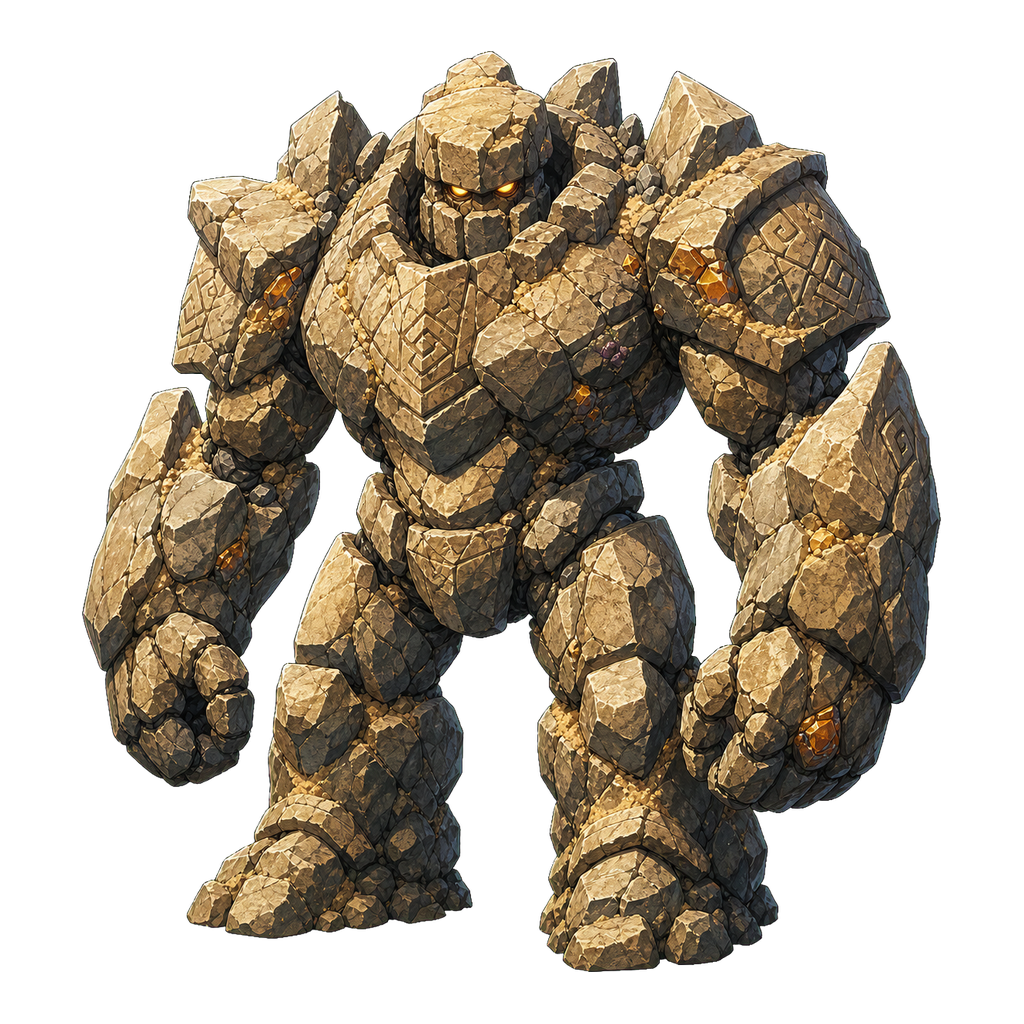
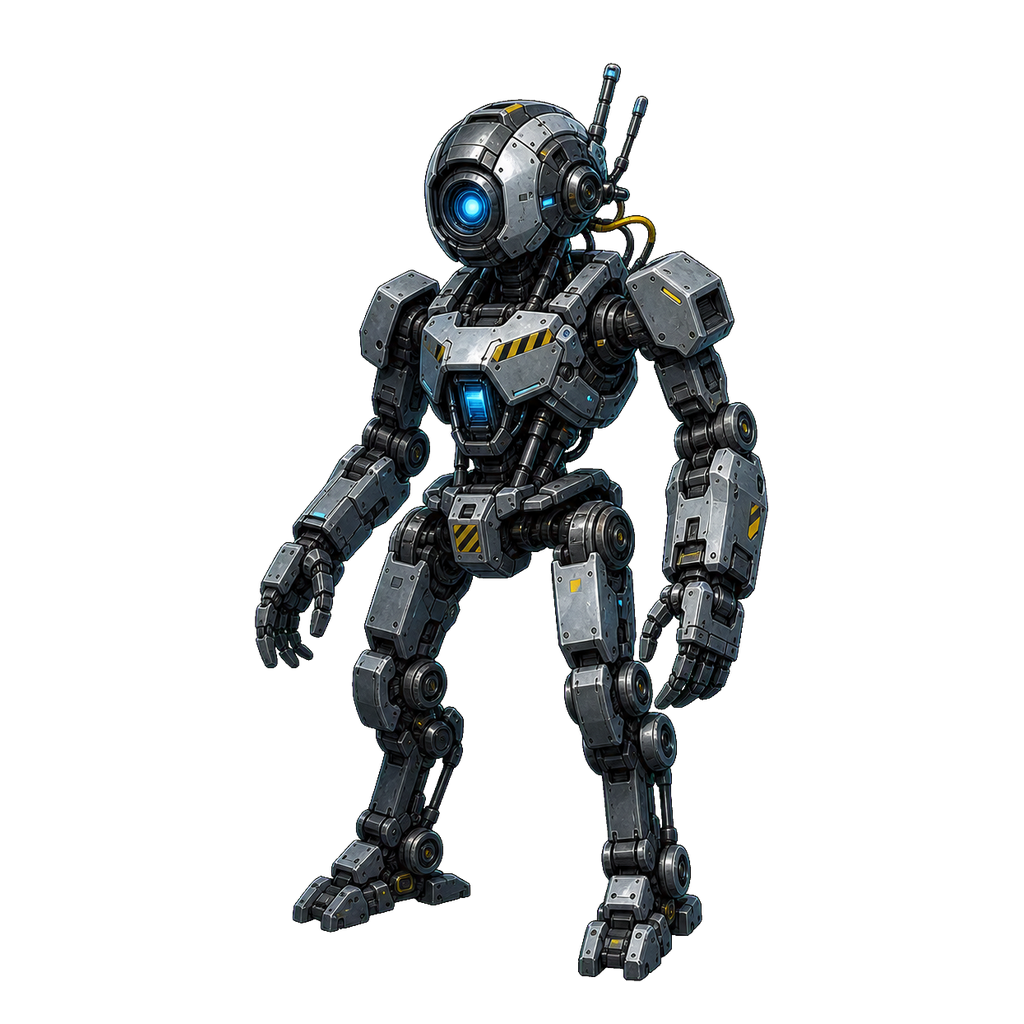
improve delta bosses and g weapon damage

diff --git a/src/game/logic.ts b/src/game/logic.ts
@@ -208,6 +208,7 @@ function createPlayer(): Player {
     axeBreakTimer: 0,
     shieldShockCooldown: 0,
     shieldShockTimer: 0,
+    mainWeaponDamageBonus: 0,
   };
 }
 
@@ -234,13 +235,14 @@ export function updateGame(
   weaponId: string | undefined = undefined,
   weaponLevel = 1,
   mainCharacterId: MainCharacterId = 'socho',
+  isGWeapon = false,
 ): GameState {
   if (state.status !== 'playing') return state;
 
   let next: GameState = {
     ...state,
     elapsed: state.elapsed + dt,
-    player: updatePlayer(state.player, dt, move, Boolean(state.boss)),
+    player: { ...updatePlayer(state.player, dt, move, Boolean(state.boss)), mainWeaponDamageBonus: isGWeapon ? 1 : 0 },
     spawnTimer: state.spawnTimer - dt,
   };
   const supportSources = createSupportAbilitySources(supportId, supportLevel, auraSupportId, auraSupportLevel);
@@ -796,8 +798,8 @@ function runAutoBow(state: GameState, weaponId: string | undefined, weaponLevel:
     y: state.player.y - 24,
     vy: -TSUTSU_ARROW_SPEED,
     radius: TSUTSU_ARROW_RADIUS,
-    damage: TSUTSU_ARROW_DAMAGE,
-    bossDamage: TSUTSU_ARROW_BOSS_DAMAGE,
+    damage: TSUTSU_ARROW_DAMAGE + state.player.mainWeaponDamageBonus,
+    bossDamage: TSUTSU_ARROW_BOSS_DAMAGE + state.player.mainWeaponDamageBonus,
     life: TSUTSU_ARROW_LIFE,
   };
 
@@ -838,8 +840,8 @@ function runAutoIceSword(state: GameState, weaponId: string | undefined, weaponL
       vx: direction.x * NANAICHI_ICE_SHARD_SPEED,
       vy: direction.y * NANAICHI_ICE_SHARD_SPEED,
       radius: NANAICHI_ICE_SHARD_RADIUS,
-      damage: NANAICHI_ICE_SHARD_DAMAGE,
-      bossDamage: NANAICHI_ICE_SHARD_BOSS_DAMAGE,
+      damage: NANAICHI_ICE_SHARD_DAMAGE + state.player.mainWeaponDamageBonus,
+      bossDamage: NANAICHI_ICE_SHARD_BOSS_DAMAGE + state.player.mainWeaponDamageBonus,
       life: NANAICHI_ICE_SHARD_LIFE,
       kind: 'ice',
     };
@@ -882,8 +884,8 @@ function runAutoFlameSword(state: GameState, weaponId: string | undefined, weapo
       vx: direction.x * MYOO_FLAME_BULLET_SPEED,
       vy: direction.y * MYOO_FLAME_BULLET_SPEED,
       radius: MYOO_FLAME_BULLET_RADIUS,
-      damage: MYOO_FLAME_BULLET_DAMAGE,
-      bossDamage: MYOO_FLAME_BULLET_BOSS_DAMAGE,
+      damage: MYOO_FLAME_BULLET_DAMAGE + state.player.mainWeaponDamageBonus,
+      bossDamage: MYOO_FLAME_BULLET_BOSS_DAMAGE + state.player.mainWeaponDamageBonus,
       life: MYOO_FLAME_BULLET_LIFE,
       kind: 'flame',
     };
@@ -925,8 +927,8 @@ function runAutoGunfire(state: GameState, weaponId: string | undefined, weaponLe
     vx: isLeftShot ? -PLAYER_MAIN_GUN_SPREAD_X : PLAYER_MAIN_GUN_SPREAD_X,
     vy: -PLAYER_MAIN_GUN_SPEED,
     radius: PLAYER_MAIN_GUN_RADIUS,
-    damage: PLAYER_MAIN_GUN_DAMAGE,
-    bossDamage: PLAYER_MAIN_GUN_BOSS_DAMAGE,
+    damage: PLAYER_MAIN_GUN_DAMAGE + state.player.mainWeaponDamageBonus,
+    bossDamage: PLAYER_MAIN_GUN_BOSS_DAMAGE + state.player.mainWeaponDamageBonus,
     life: PLAYER_MAIN_GUN_LIFE,
     kind: 'gun',
   };
@@ -966,8 +968,8 @@ function runAutoToolGun(state: GameState, weaponId: string | undefined, weaponLe
     vx: 0,
     vy: -DELI_TOOL_GUN_SPEED,
     radius: DELI_TOOL_GUN_RADIUS,
-    damage: DELI_TOOL_GUN_DAMAGE,
-    bossDamage: DELI_TOOL_GUN_BOSS_DAMAGE,
+    damage: DELI_TOOL_GUN_DAMAGE + state.player.mainWeaponDamageBonus,
+    bossDamage: DELI_TOOL_GUN_BOSS_DAMAGE + state.player.mainWeaponDamageBonus,
     life: DELI_TOOL_GUN_LIFE,
     kind: 'gun',
   };
@@ -1030,8 +1032,8 @@ function runAutoSpearThrust(
           vx: 0,
           vy: -weaponTuning.thrownSpearSpeed,
           radius: weaponTuning.thrownSpearRadius,
-          damage: 1,
-          bossDamage: 1,
+          damage: 1 + state.player.mainWeaponDamageBonus,
+          bossDamage: 1 + state.player.mainWeaponDamageBonus,
           life: USHIMARU_THROWN_SPEAR_LIFE,
           kind: 'spear',
           piercing: true,
@@ -1342,8 +1344,8 @@ function updateDeliTurrets(
       vx: direction.x * DELI_TURRET_BULLET_SPEED,
       vy: direction.y * DELI_TURRET_BULLET_SPEED,
       radius: DELI_TURRET_BULLET_RADIUS,
-      damage: 1,
-      bossDamage: 1,
+      damage: 1 + state.player.mainWeaponDamageBonus,
+      bossDamage: 1 + state.player.mainWeaponDamageBonus,
       life: DELI_TURRET_BULLET_LIFE,
       kind: 'turret',
     });
@@ -1510,7 +1512,7 @@ function damageEnemiesWithSlash(
       continue;
     }
 
-    const damage = (slashHit ? SLASH_DAMAGE : 0) + (waveHit ? weaponTuning.starWaveDamage : 0);
+    const damage = (slashHit ? SLASH_DAMAGE : 0) + (waveHit ? weaponTuning.starWaveDamage : 0) + player.mainWeaponDamageBonus;
     const hp = enemy.hp - damage;
     nextEffects.push(createHitEffect(nextId++, enemy.x, enemy.y, `-${damage}`));
     if (hp <= 0) {
@@ -1542,7 +1544,7 @@ function damageBossWithSlash(
   const slashHit = isInBossSlash(player, boss);
   const waveHit = hasSlashWave && isInBossStarSlashWave(player, boss, weaponTuning);
   if (!slashHit && !waveHit) return { boss, nextId };
-  const damage = (slashHit ? SLASH_DAMAGE : 0) + (waveHit ? weaponTuning.starWaveBossDamage : 0);
+  const damage = (slashHit ? SLASH_DAMAGE : 0) + (waveHit ? weaponTuning.starWaveBossDamage : 0) + player.mainWeaponDamageBonus;
   return {
     boss: { ...boss, hp: boss.hp - damage, hitTimer: 0.18 },
     effect: createHitEffect(nextId++, boss.x, boss.y + boss.radius * 0.2, `-${damage}`),
@@ -1572,8 +1574,9 @@ function damageEnemiesWithShadowSlash(
       continue;
     }
 
-    const hp = enemy.hp - ROKUDO_SHADOW_SLASH_DAMAGE;
-    nextEffects.push(createShadowHitEffect(nextId++, enemy.x, enemy.y, `-${ROKUDO_SHADOW_SLASH_DAMAGE}`));
+    const damage = ROKUDO_SHADOW_SLASH_DAMAGE + player.mainWeaponDamageBonus;
+    const hp = enemy.hp - damage;
+    nextEffects.push(createShadowHitEffect(nextId++, enemy.x, enemy.y, `-${damage}`));
     if (hp <= 0) {
       defeated += 1;
       const drops = createEnemyCoinDrops(enemy, nextId, supportId, supportLevel);
@@ -1595,8 +1598,8 @@ function damageEnemiesWithShadowSlash(
 function damageBossWithShadowSlash(boss: Boss | null, player: Player, nextId: number) {
   if (!boss || !isInBossShadowSlash(player, boss)) return { boss, nextId };
   return {
-    boss: { ...boss, hp: boss.hp - ROKUDO_SHADOW_SLASH_BOSS_DAMAGE, hitTimer: 0.16 },
-    effect: createShadowHitEffect(nextId++, boss.x, boss.y + boss.radius * 0.2, `-${ROKUDO_SHADOW_SLASH_BOSS_DAMAGE}`),
+    boss: { ...boss, hp: boss.hp - ROKUDO_SHADOW_SLASH_BOSS_DAMAGE - player.mainWeaponDamageBonus, hitTimer: 0.16 },
+    effect: createShadowHitEffect(nextId++, boss.x, boss.y + boss.radius * 0.2, `-${ROKUDO_SHADOW_SLASH_BOSS_DAMAGE + player.mainWeaponDamageBonus}`),
     nextId,
   };
 }
@@ -1624,8 +1627,9 @@ function damageEnemiesWithSpearThrust(
       continue;
     }
 
-    const hp = enemy.hp - USHIMARU_SPEAR_DAMAGE;
-    nextEffects.push(createHitEffect(nextId++, enemy.x, enemy.y, `-${USHIMARU_SPEAR_DAMAGE}`));
+    const damage = USHIMARU_SPEAR_DAMAGE + player.mainWeaponDamageBonus;
+    const hp = enemy.hp - damage;
+    nextEffects.push(createHitEffect(nextId++, enemy.x, enemy.y, `-${damage}`));
     if (hp <= 0) {
       defeated += 1;
       const drops = createEnemyCoinDrops(enemy, nextId, supportId, supportLevel);
@@ -1652,8 +1656,8 @@ function damageBossWithSpearThrust(
 ) {
   if (!boss || !isInBossSpearThrust(player, boss, weaponTuning)) return { boss, nextId };
   return {
-    boss: { ...boss, hp: boss.hp - USHIMARU_SPEAR_BOSS_DAMAGE, hitTimer: 0.16 },
-    effect: createHitEffect(nextId++, boss.x, boss.y + boss.radius * 0.2, `-${USHIMARU_SPEAR_BOSS_DAMAGE}`),
+    boss: { ...boss, hp: boss.hp - USHIMARU_SPEAR_BOSS_DAMAGE - player.mainWeaponDamageBonus, hitTimer: 0.16 },
+    effect: createHitEffect(nextId++, boss.x, boss.y + boss.radius * 0.2, `-${USHIMARU_SPEAR_BOSS_DAMAGE + player.mainWeaponDamageBonus}`),
     nextId,
   };
 }
@@ -1684,7 +1688,7 @@ function damageEnemiesWithHammerBreaker(
       continue;
     }
 
-    const damage = (hammerHit ? YABUKO_FM_HAMMER_DAMAGE : 0) + (starBreakHit ? STARBREAKER_SHOCKWAVE_DAMAGE : 0);
+    const damage = (hammerHit ? YABUKO_FM_HAMMER_DAMAGE : 0) + (starBreakHit ? STARBREAKER_SHOCKWAVE_DAMAGE : 0) + player.mainWeaponDamageBonus;
     const hp = enemy.hp - damage;
     nextEffects.push(createHitEffect(nextId++, enemy.x, enemy.y, `-${damage}`));
 
@@ -1717,7 +1721,7 @@ function damageBossWithHammerBreaker(
   const hammerHit = isInBossHammerBreaker(player, boss, weaponTuning);
   const starBreakHit = shouldStarBreak && isInBossStarbreakerShockwave(player, boss, weaponTuning);
   if (!hammerHit && !starBreakHit) return { boss, nextId };
-  const damage = (hammerHit ? YABUKO_FM_HAMMER_BOSS_DAMAGE : 0) + (starBreakHit ? STARBREAKER_SHOCKWAVE_BOSS_DAMAGE : 0);
+  const damage = (hammerHit ? YABUKO_FM_HAMMER_BOSS_DAMAGE : 0) + (starBreakHit ? STARBREAKER_SHOCKWAVE_BOSS_DAMAGE : 0) + player.mainWeaponDamageBonus;
 
   return {
     boss: { ...boss, hp: boss.hp - damage, hitTimer: 0.18 },
@@ -1752,7 +1756,7 @@ function damageEnemiesWithAxeBerserker(
       continue;
     }
 
-    const damage = mountainBreakHit ? MOUNTAIN_BREAKER_DAMAGE : ROCKEL_AXE_DAMAGE;
+    const damage = (mountainBreakHit ? MOUNTAIN_BREAKER_DAMAGE : ROCKEL_AXE_DAMAGE) + player.mainWeaponDamageBonus;
     const hp = enemy.hp - damage;
     nextEffects.push(createHitEffect(nextId++, enemy.x, enemy.y, `-${damage}`));
 
@@ -1785,7 +1789,7 @@ function damageBossWithAxeBerserker(
   const axeHit = isInBossAxeBerserker(player, boss, weaponTuning);
   const mountainBreakHit = shouldMountainBreak && isInBossMountainBreaker(player, boss, weaponTuning);
   if (!axeHit && !mountainBreakHit) return { boss, nextId };
-  const damage = (axeHit ? ROCKEL_AXE_BOSS_DAMAGE : 0) + (mountainBreakHit ? MOUNTAIN_BREAKER_BOSS_DAMAGE : 0);
+  const damage = (axeHit ? ROCKEL_AXE_BOSS_DAMAGE : 0) + (mountainBreakHit ? MOUNTAIN_BREAKER_BOSS_DAMAGE : 0) + player.mainWeaponDamageBonus;
 
   return {
     boss: { ...boss, hp: boss.hp - damage, hitTimer: 0.18 },
@@ -1820,7 +1824,7 @@ function damageEnemiesWithShieldGuardian(
       continue;
     }
 
-    const damage = (bashHit ? HIBIKI_SHIELD_BASH_DAMAGE : 0) + (shockwaveHit ? IRONWALL_SHOCKWAVE_DAMAGE : 0);
+    const damage = (bashHit ? HIBIKI_SHIELD_BASH_DAMAGE : 0) + (shockwaveHit ? IRONWALL_SHOCKWAVE_DAMAGE : 0) + player.mainWeaponDamageBonus;
     const hp = enemy.hp - damage;
     nextEffects.push(createHitEffect(nextId++, enemy.x, enemy.y, `-${damage}`));
 
@@ -1859,7 +1863,7 @@ function damageBossWithShieldGuardian(
   const bashHit = isInBossShieldBash(player, boss, weaponTuning);
   const shockwaveHit = shouldIronwall && isInBossIronwallShockwave(player, boss, weaponTuning);
   if (!bashHit && !shockwaveHit) return { boss, nextId };
-  const damage = (bashHit ? HIBIKI_SHIELD_BASH_BOSS_DAMAGE : 0) + (shockwaveHit ? IRONWALL_SHOCKWAVE_BOSS_DAMAGE : 0);
+  const damage = (bashHit ? HIBIKI_SHIELD_BASH_BOSS_DAMAGE : 0) + (shockwaveHit ? IRONWALL_SHOCKWAVE_BOSS_DAMAGE : 0) + player.mainWeaponDamageBonus;
 
   return {
     boss: { ...boss, hp: boss.hp - damage, hitTimer: 0.18 },

diff --git a/src/App.css b/src/App.css
@@ -3068,14 +3068,29 @@ body.game-touch-lock .field {
   background-size: contain;
   background-repeat: no-repeat;
   filter: hue-rotate(18deg) saturate(1.4) drop-shadow(0 0 14px rgba(163, 98, 255, 0.92));
-  opacity: 0.76;
+  opacity: 0.46;
   pointer-events: none;
   z-index: 4;
   animation: blackNoiseCloneFlicker 0.22s steps(2, end) infinite alternate;
+  border: 2px dashed rgba(207, 159, 255, 0.8);
+  border-radius: 50%;
+  box-sizing: border-box;
 }
 
-.boss-clone::after {
-  content: "NOISE";
+.boss-clone::before {
+  content: "";
+  position: absolute;
+  inset: 7%;
+  border: 1px solid rgba(114, 59, 210, 0.88);
+  border-radius: 50%;
+  box-shadow: inset 0 0 18px rgba(73, 20, 130, 0.55), 0 0 12px rgba(153, 82, 255, 0.76);
+}
+
+.boss-clone-label {
+  position: absolute;
+  top: -13px;
+  left: 50%;
+  transform: translateX(-50%);
   color: rgba(211, 186, 255, 0.82);
   font-size: 7px;
   font-weight: 900;
@@ -3093,6 +3108,24 @@ body.game-touch-lock .field {
 
 .boss-black-noise-roku {
   filter: saturate(0.72) contrast(1.28) drop-shadow(0 0 18px rgba(149, 78, 255, 0.92));
+  outline: 2px solid rgba(245, 229, 255, 0.9);
+  outline-offset: 3px;
+}
+
+.boss-core-marker {
+  position: absolute;
+  top: -15px;
+  left: 50%;
+  transform: translateX(-50%);
+  padding: 2px 5px;
+  border: 1px solid rgba(255, 245, 173, 0.95);
+  border-radius: 999px;
+  color: #fff7bf;
+  background: rgba(41, 9, 70, 0.86);
+  font-size: 7px;
+  font-weight: 900;
+  letter-spacing: 0.1em;
+  box-shadow: 0 0 10px rgba(255, 216, 113, 0.9);
 }
 
 @keyframes blackNoiseCloneFlicker {

diff --git a/src/App.tsx b/src/App.tsx
@@ -272,6 +272,7 @@ function App() {
   const mainCharacterId = useRef<MainCharacterId>('socho');
   const equippedWeaponId = useRef('iron-tachi');
   const equippedWeaponLevel = useRef(1);
+  const equippedWeaponIsG = useRef(false);
   const pressedKeys = useRef(new Set<string>());
   const dragTarget = useRef<Vector | null>(null);
   const joystickVector = useRef<Vector | null>(null);
@@ -351,6 +352,7 @@ function App() {
           equippedWeaponId.current,
           equippedWeaponLevel.current,
           mainCharacterId.current,
+          equippedWeaponIsG.current,
         ),
       );
       frameId = requestAnimationFrame(tick);
@@ -484,7 +486,8 @@ function App() {
   useEffect(() => {
     equippedWeaponId.current = equippedMainWeapon.id;
     equippedWeaponLevel.current = equippedMainWeaponLevel;
-  }, [equippedMainWeapon.id, equippedMainWeaponLevel]);
+    equippedWeaponIsG.current = gWeaponIds.includes(equippedMainWeapon.id);
+  }, [equippedMainWeapon.id, equippedMainWeaponLevel, gWeaponIds]);
 
   useEffect(() => {
     supportLevel.current = selectedSupportLevel;
@@ -513,6 +516,7 @@ function App() {
     mainCharacterId.current = trainingSelectedCharacterId;
     equippedWeaponId.current = trainingWeapon.id;
     equippedWeaponLevel.current = trainingWeaponLevel;
+    equippedWeaponIsG.current = gWeaponIds.includes(trainingWeapon.id);
     pressedKeys.current.clear();
     dragTarget.current = null;
     resetJoystick();
@@ -2287,6 +2291,7 @@ function App() {
                 }}
               >
                 {game.boss.name}
+                {game.boss.type === 'black-noise-roku' && <span className="boss-core-marker">CORE</span>}
               </div>
             )}
 
@@ -2299,7 +2304,9 @@ function App() {
                   backgroundImage: 'url(/assets/tcg/boss-black-noise-roku-clone.png)',
                 }}
                 aria-label="Black Noise Roku clone"
-              />
+              >
+                <span className="boss-clone-label">CLONE</span>
+              </div>
             ))}
 
             {game.effects.map((effect) => (

diff --git a/src/game/types.ts b/src/game/types.ts
@@ -206,6 +206,7 @@ export type Player = {
   axeBreakTimer: number;
   shieldShockCooldown: number;
   shieldShockTimer: number;
+  mainWeaponDamageBonus: number;
 };
 
 export type Vector = {